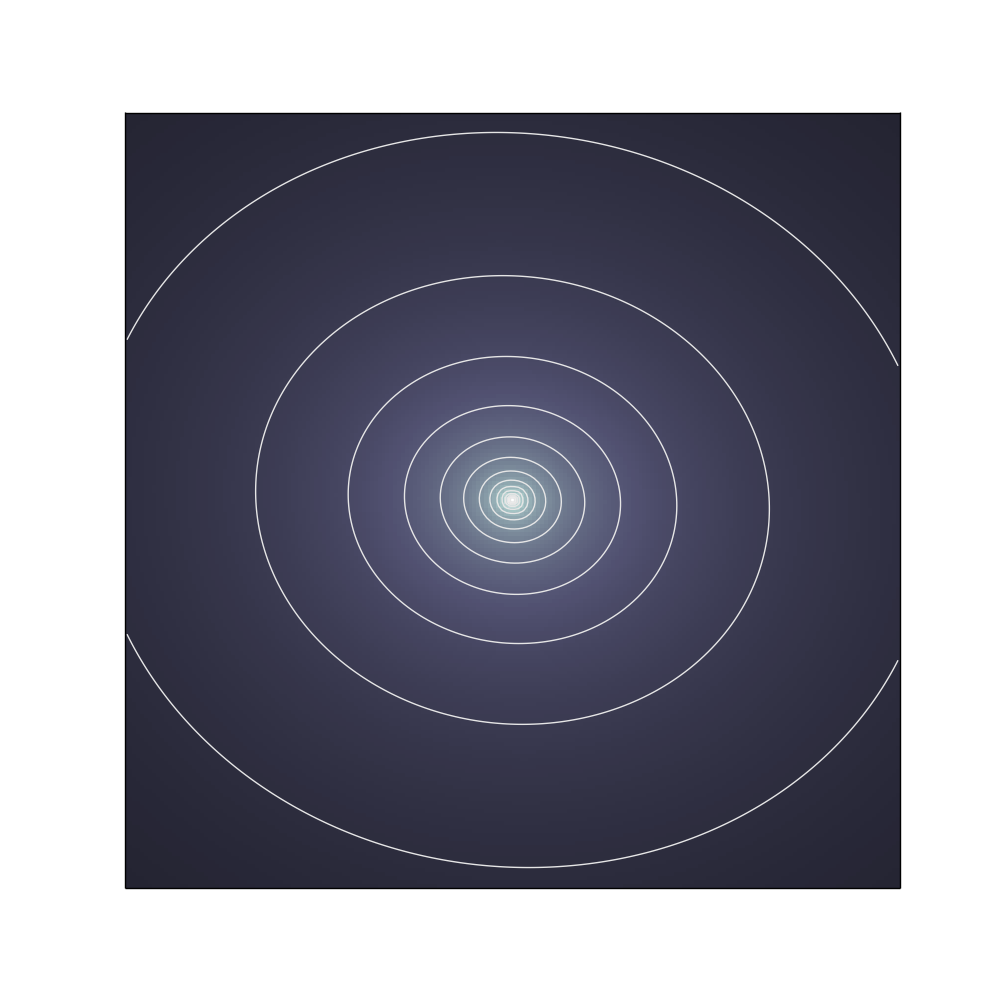
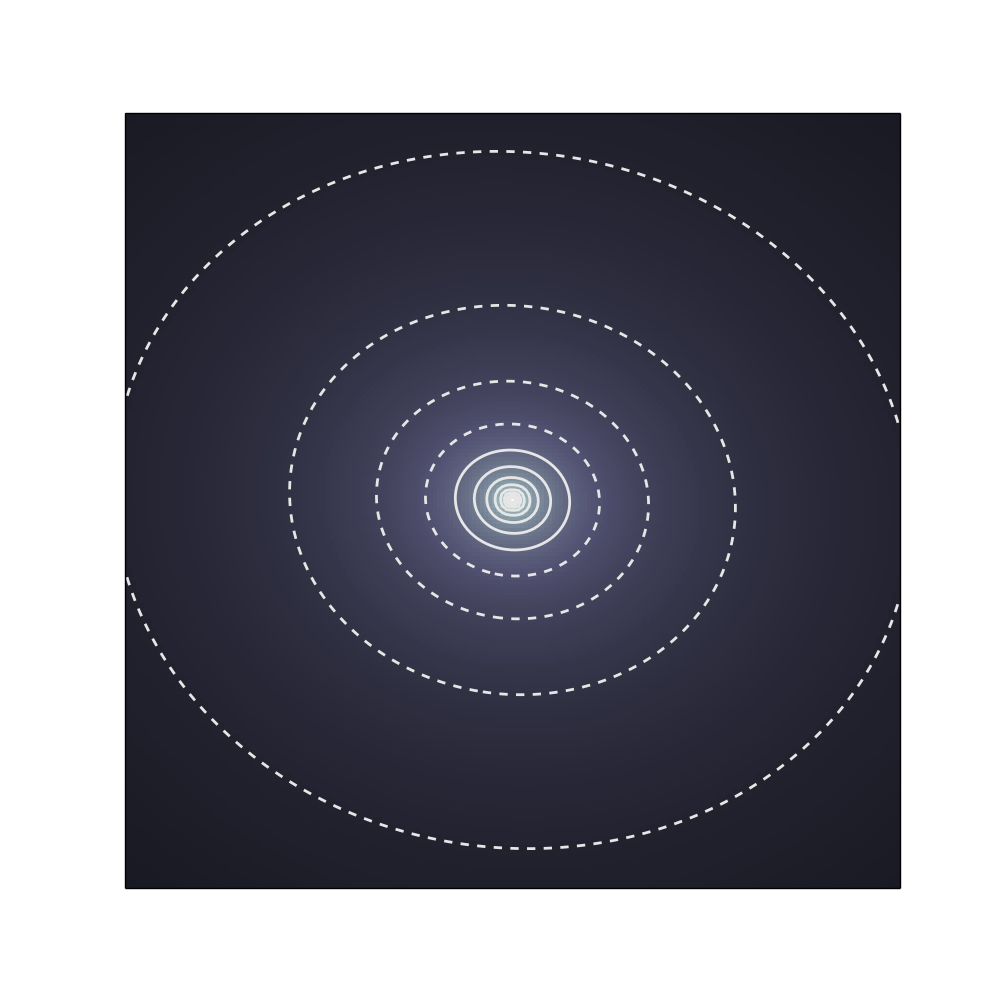
forgott kappa plots

diff --git a/plots/gen_plots.py b/plots/gen_plots.py
@@ -891,7 +891,7 @@ def draw_sim(asw, sim):
         
         n_contours=15
         
-        pc = panel.contour(x_cut,y_cut, 2.5*np.log10(kappa_cut+eps), n_contours, colors='0.9' )
+        pc = panel.contour(x_cut,y_cut, 2.5*np.log10(kappa_cut+eps), n_contours, colors='0.9', linewidths=2)
         
         #panel.clabel(pc, inline=1, fontsize=10)
         panel.pcolormesh(x_cm, y_cm, np.log10(kappa_cut+eps), vmin=np.log10(eps), vmax=np.log10(np.amax(kappa_cut)), edgecolors="None", cmap='bone', shading="flat")
